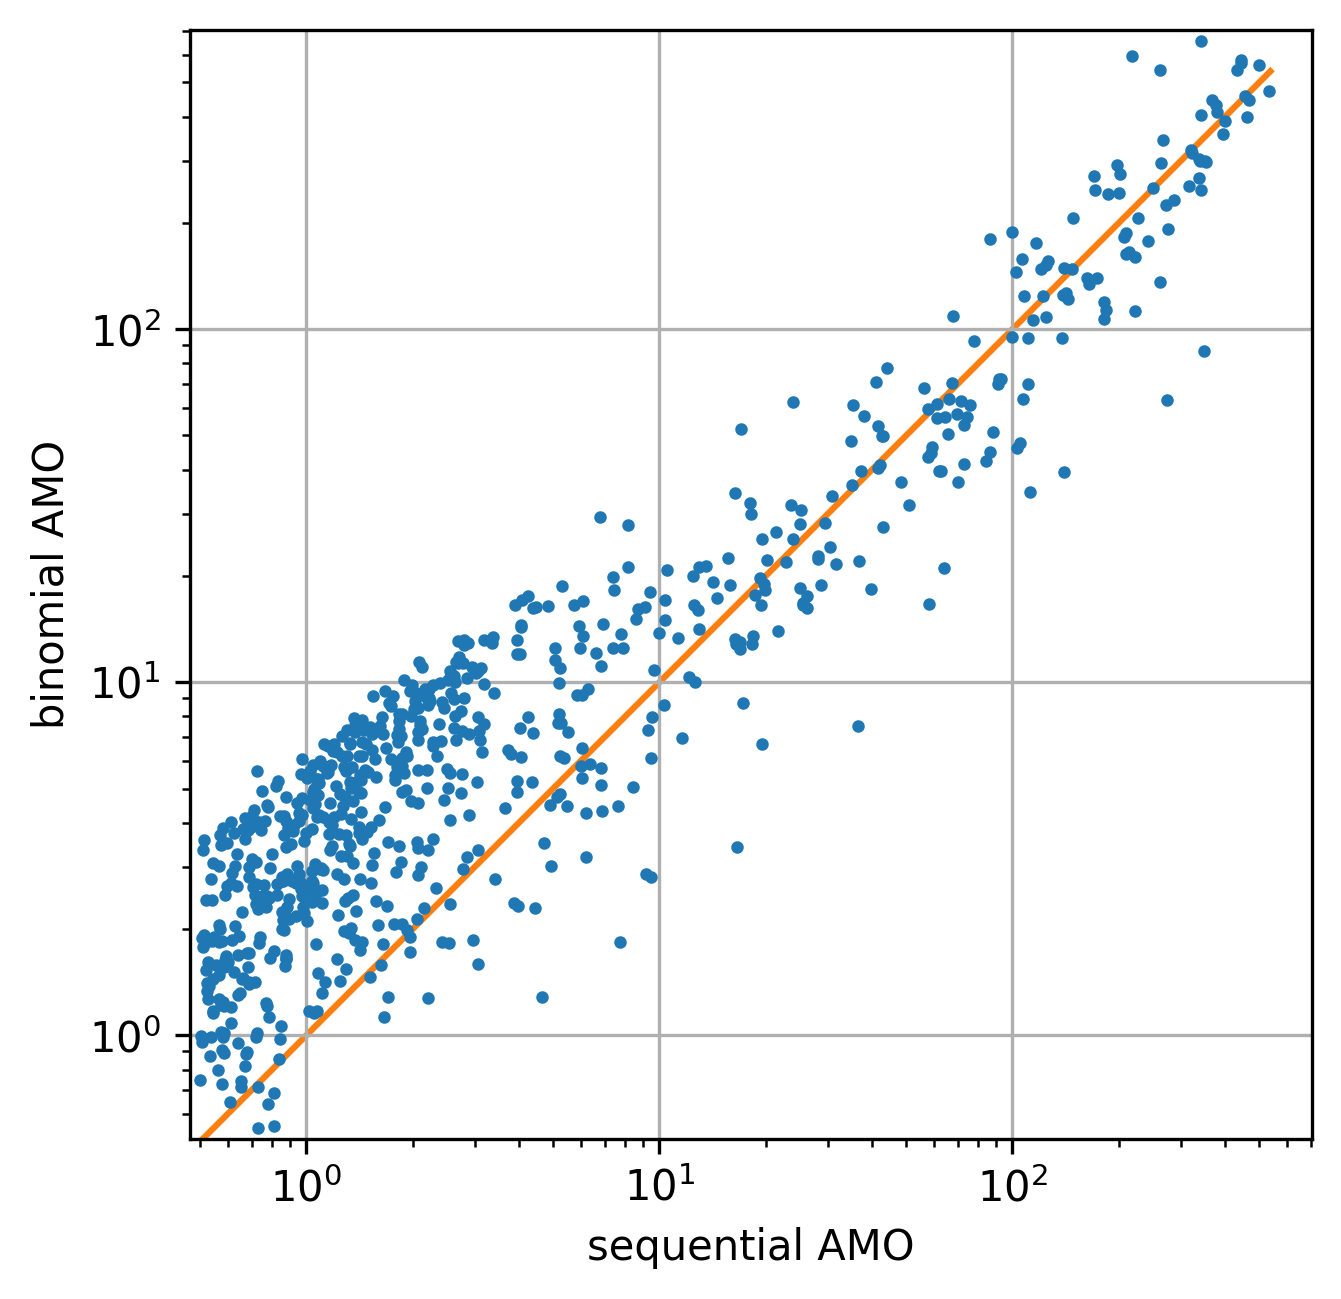
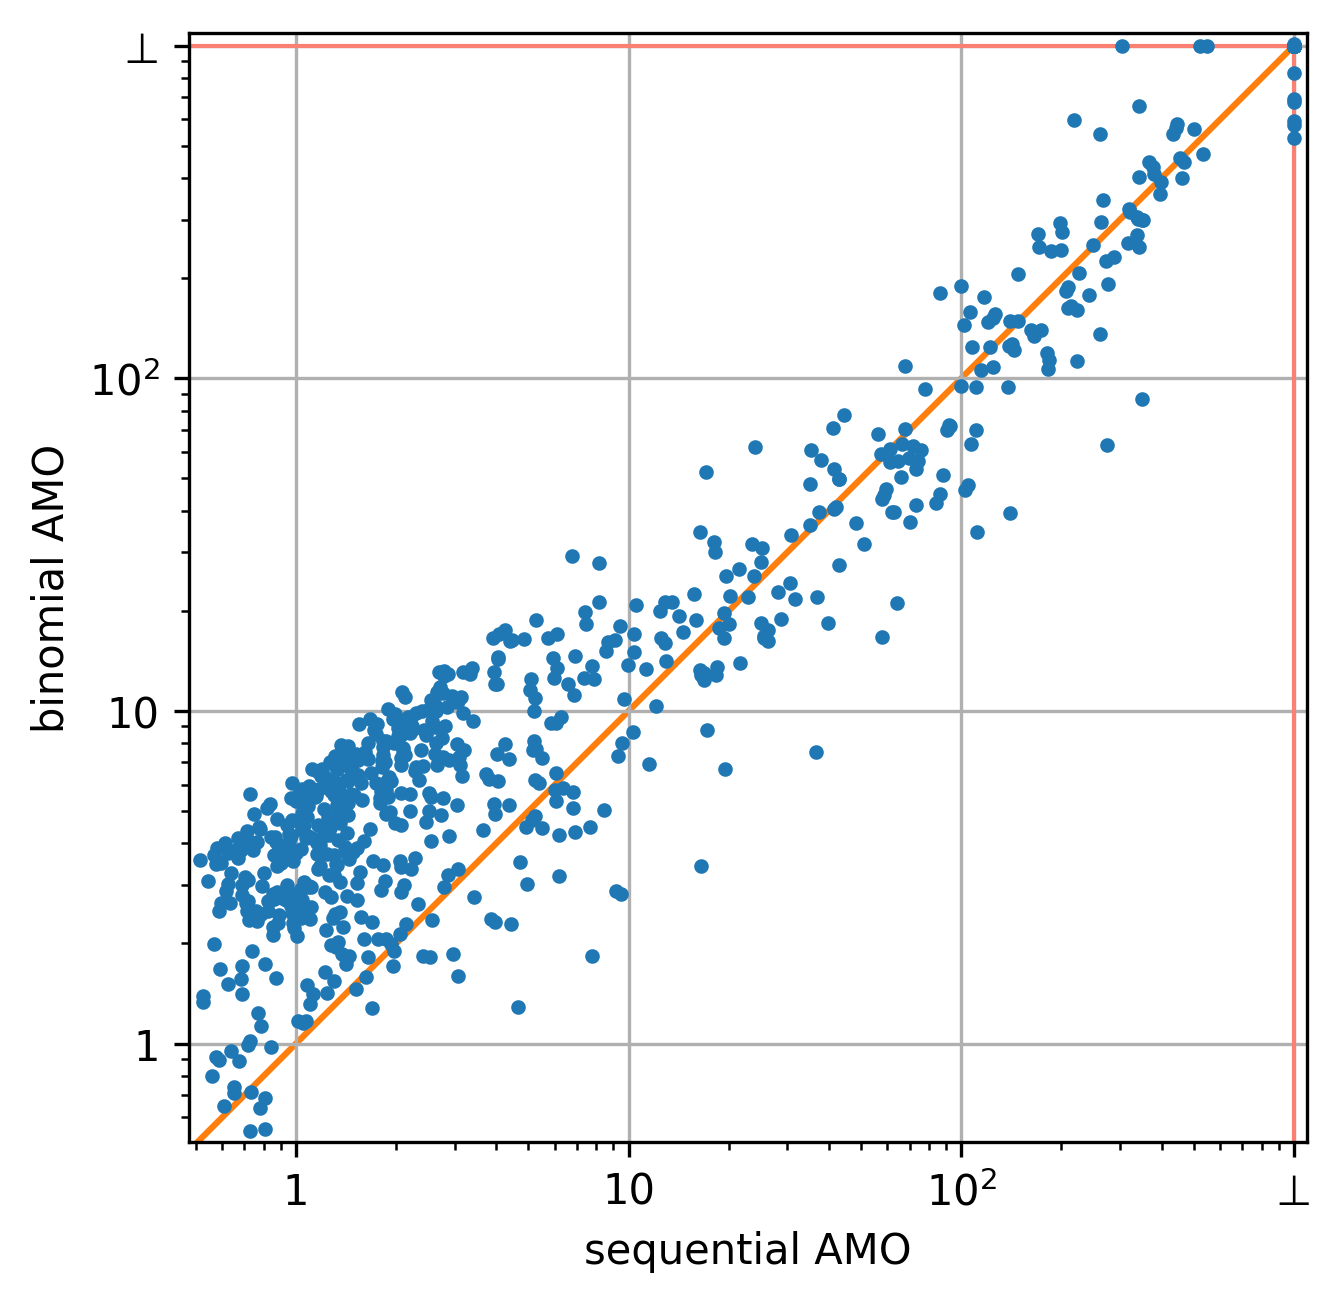
Configuration

diff --git a/configuration/evaluate.py b/configuration/evaluate.py
@@ -1,19 +1,35 @@
 import glob
 import pickle
 import pandas as pd
+import itertools
 import matplotlib.pyplot as plt
+import matplotlib.ticker as ticker
 
 def plot(xlabel: str, ylabel: str, filename: str, legend=True):
     xpoints = ypoints = plt.xlim()
-    plt.plot(xpoints, ypoints, linestyle='-', zorder=0)
+    plt.plot(xpoints, ypoints, linestyle='-', zorder=1)
+    axes = plt.gca()
+    axes.yaxis.grid(True, zorder=0)
+    axes.xaxis.grid(True, zorder=0)
+    plt.plot([1e3, 1e3], [0, 1e3], linestyle='-', color='salmon', zorder=2, lw=1)
+    plt.plot([0, 1e3], [1e3, 1e3], linestyle='-', color='salmon', zorder=2, lw=1)
     plt.xscale('log')
     plt.yscale('log')
     plt.xlabel(xlabel)
     plt.ylabel(ylabel)
     plt.axis('square')
-    plt.gca().yaxis.grid(True)
-    plt.gca().xaxis.grid(True)
-    if plt.gca().get_legend_handles_labels()[0]:
+
+    f = axes.xaxis.get_major_formatter()
+    fx = lambda x, pos: '⊥' if pos == 5 else 1 if pos == 2 else 10 if pos == 3 else f.__call__(x, pos)
+    axes.xaxis.set_major_locator(ticker.LogLocator())
+    axes.xaxis.set_major_formatter(ticker.FuncFormatter(fx))
+
+    f = axes.yaxis.get_major_formatter()
+    fy = lambda y, pos: '⊥' if pos == 5 else 1 if pos == 2 else 10 if pos == 3 else f.__call__(y, pos)
+    axes.yaxis.set_major_locator(ticker.LogLocator())
+    axes.yaxis.set_major_formatter(ticker.FuncFormatter(fy))
+
+    if axes.get_legend_handles_labels()[0]:
         plt.legend(framealpha=1)
     plt.savefig(filename, dpi=300, bbox_inches = 'tight')
     print("Plot saved to file {}.png".format(filename))
@@ -28,6 +44,8 @@ needed = static + ['config', 'result', 't_total']
 pickle_jar = 'data.p'
 
 encodings = [(4, 0), (3, 1), (5, 2), (6, 3)]
+
+tail = '|600|4|1|1'
 
 def load(encoding=False) -> dict:
 
@@ -60,11 +78,13 @@ def load(encoding=False) -> dict:
 
     return result
 
+cyc = itertools.cycle(['o', 'x'])
+
 def do(data: dict, cf1, cf2, label=None):
 
     if label is not None:
-        cf1 += '|600|4|1|1'
-        cf2 += '|600|4|1|1'
+        cf1 += tail
+        cf2 += tail
 
     x = []
     y = []
@@ -82,18 +102,34 @@ def do(data: dict, cf1, cf2, label=None):
             s1 += 1
         if not pd.isna(v2):
             s2 += 1
-        if v1 < 5e2 or v2 < 5e2:
-            continue
-        if pd.isna(v1) or pd.isna(v2):
+
+        if any(map(lambda x: r[x][0] < 5e2, configurations)):
             continue
 
-        fs.append(v2 / v1)
+        if (pd.isna(v1)):
+            v1 = 1e6
+        if (pd.isna(v2)):
+            v2 = 1e6
         x.append(v1 / 1e3)
         y.append(v2 / 1e3)
 
-    plt.plot(x, y, '.', label=label, markersize=4)
+        if any(map(lambda x: pd.isna(r[x][0]), configurations)):
+            continue
+
+        fs.append(v2 / v1)
+
+    plt.plot(x, y, next(cyc), label=label, markersize=2.5, zorder=5)
 
     return sum(fs) / len(fs), len(fs), s1, s2
+
+def coverage(data: dict):
+    total = 0
+    solved = 0
+    for _, r in data.items():
+        total += 1
+        if any(map(lambda x: not pd.isna(r[x][0]), configurations)):
+            solved += 1
+    print("{} out of {} covered".format(solved, total))
 
 if __name__ == '__main__':
 
@@ -111,10 +147,12 @@ if __name__ == '__main__':
         with open(pickle_jar, 'wb') as fp:
             pickle.dump([result, enc], fp)
 
-    other = '|600|4|1|1'
-
     plt.rcParams['axes.xmargin'] = 1e-2
     plt.rcParams['axes.ymargin'] = 1e-2
+
+    configurations = list(map(lambda x: x + tail, ['0|2', '1|2', '0|1.5', '1|1.5']))
+
+    coverage(result)
 
     out = "{} vs. {}: {:4.2f}% decrease (n = {}), {} vs. {} solved ({:+})"
 
@@ -130,16 +168,26 @@ if __name__ == '__main__':
     print(out.format("Without preprocessing: f = 1.5", "f = 2", (1 - 1 / i) * 100, n, s1, s2, s1 - s2))
     plot('f = 1.5', 'f = 2', 'f')
 
+    i, n, s1, s2 = do(result, '1|1.5', '0|2', label='')
+    print(out.format("With optimizations", "without", (1 - 1 / i) * 100, n, s1, s2, s1 - s2))
+    next(cyc)
+    plot('Optimized', 'Unoptimized', 'o')
+
+    configurations = [0, 1, 2, 3]
+
     i, n, s1, s2 = do(enc, 1, 0)
     print(out.format("Sequential AMO (1)", "binomial AMO (0)", (1 - 1 / i) * 100, n, s1, s2, s1 - s2))
+    next(cyc)
     plot('sequential AMO', 'binomial AMO', 'amo', False)
 
     i, n, s1, s2 = do(enc, 2, 1)
     print(out.format("With edge variables (2)", "without edge variables (1)", (1 - 1 / i) * 100, n, s1, s2, s1 - s2))
+    next(cyc)
     plot('with edge variables', 'without edge variables', 'ev', False)
 
     i, n, s1, s2 = do(enc, 3, 2)
     print(out.format("With movement variables (3)", "without movement variables (2)", (1 - 1 / i) * 100, n, s1, s2, s1 - s2))
+    next(cyc)
     plot('with movement variables', 'without movement variables', 'mv', False)
 
     for i, j in encodings:
